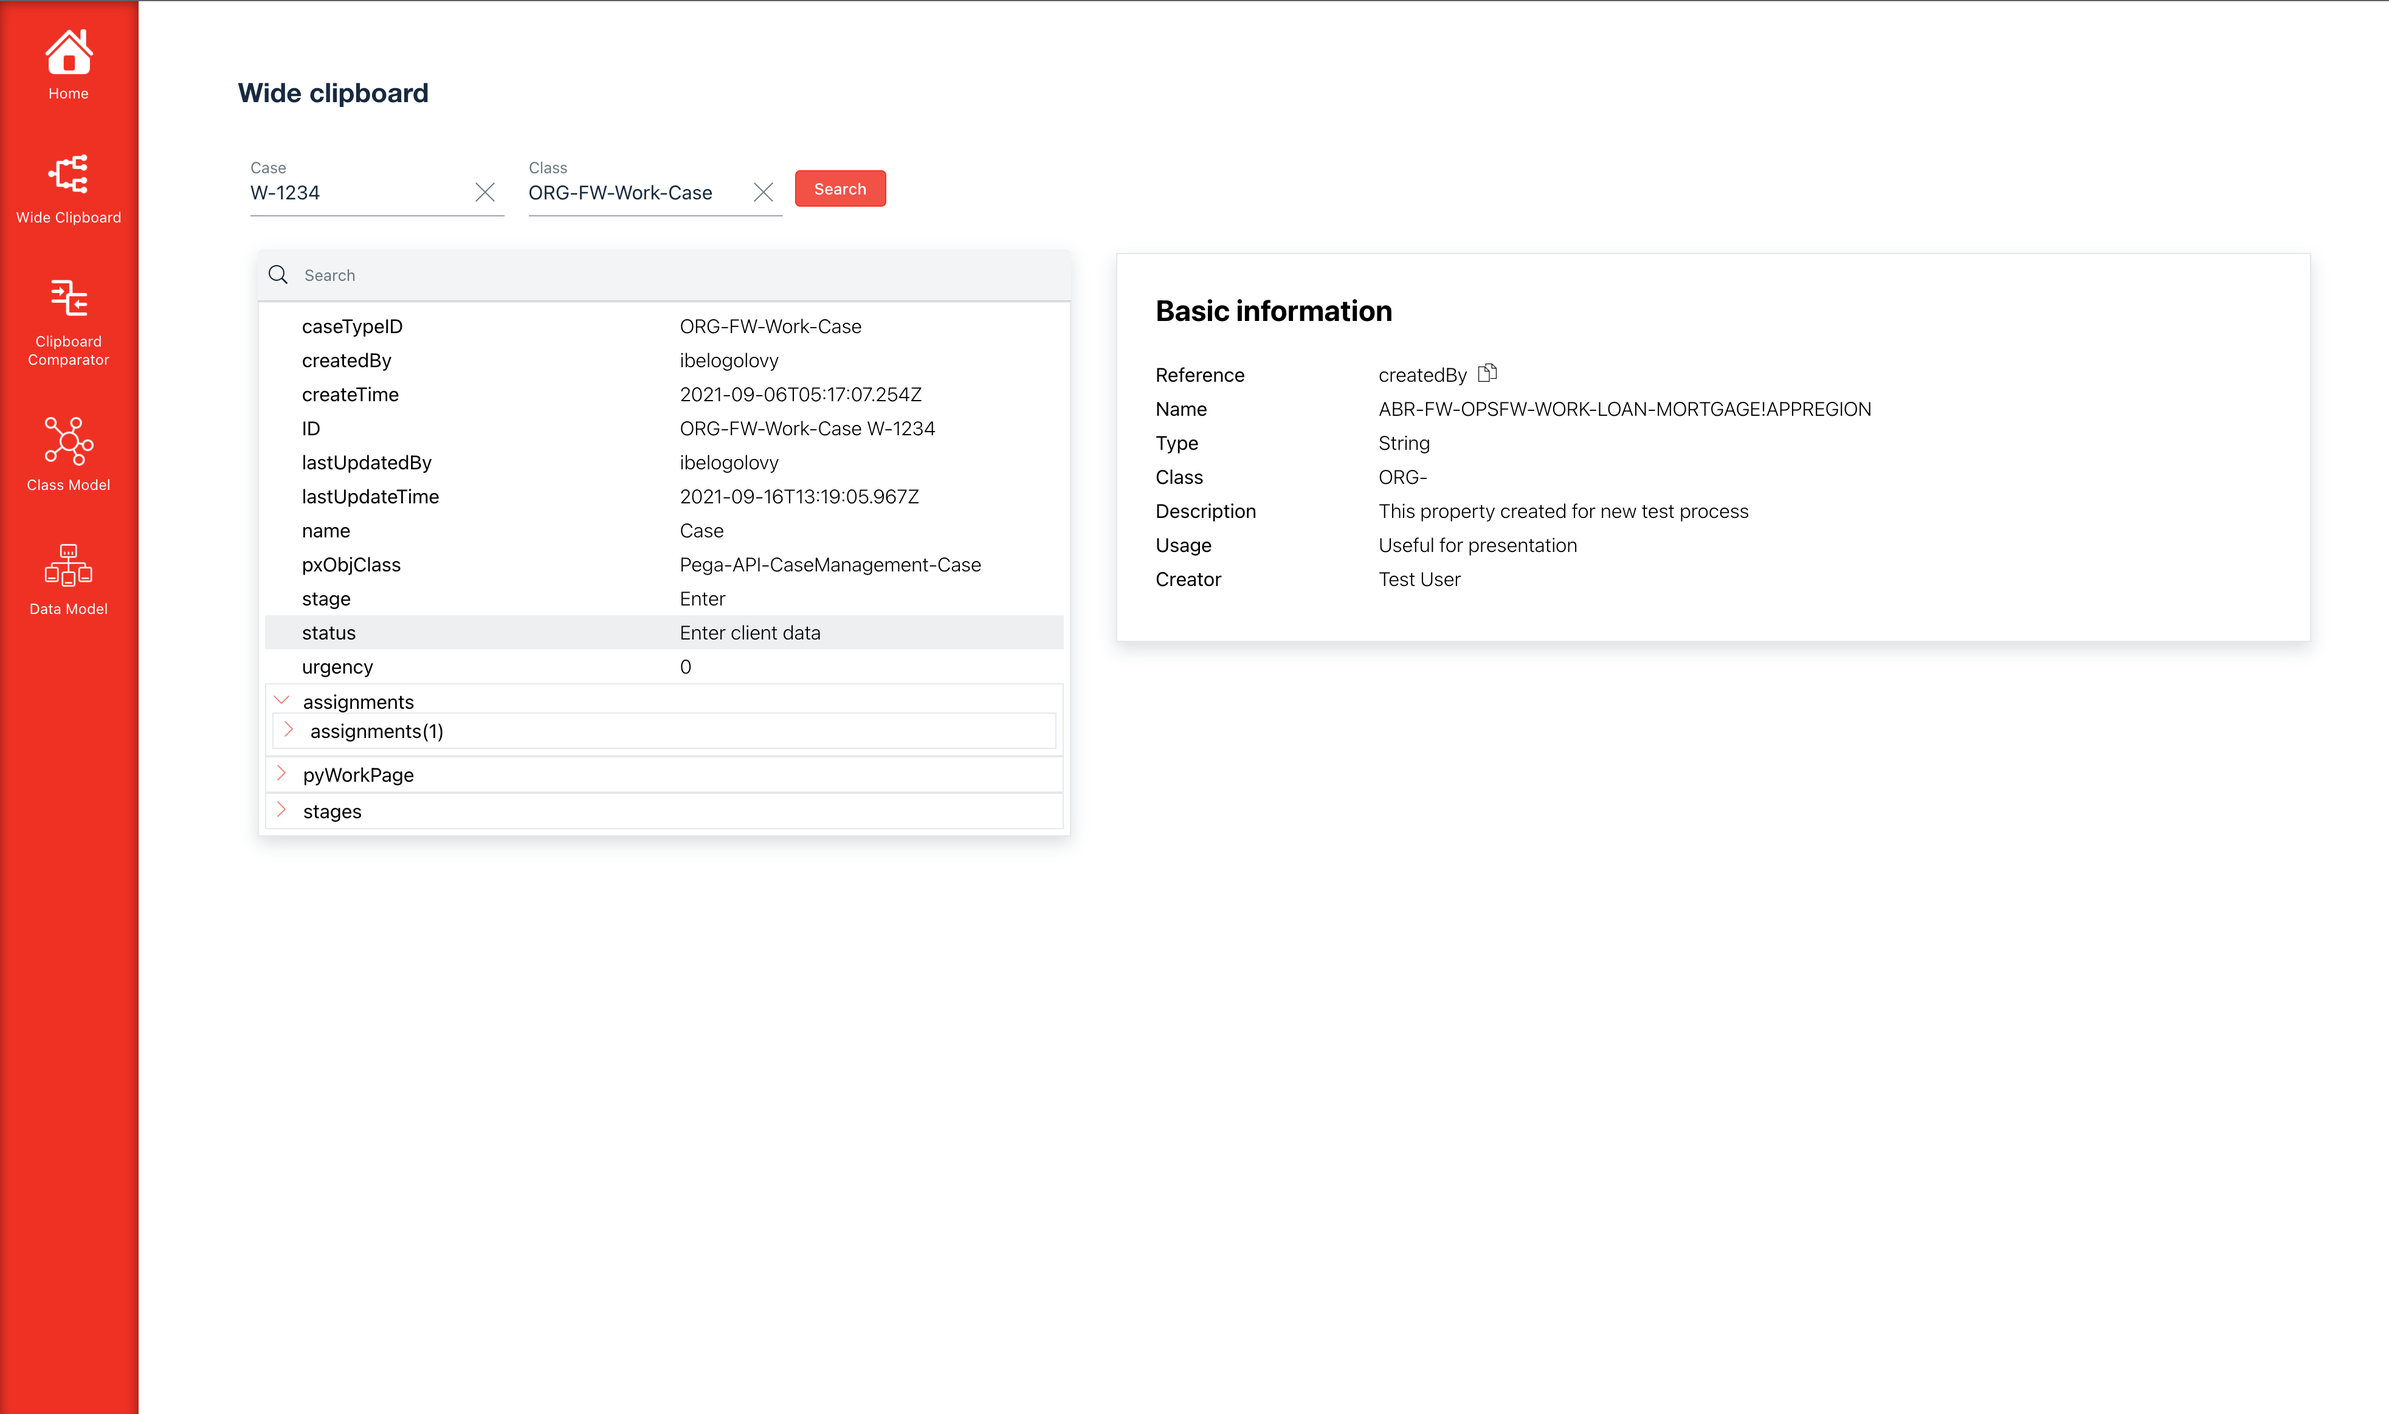
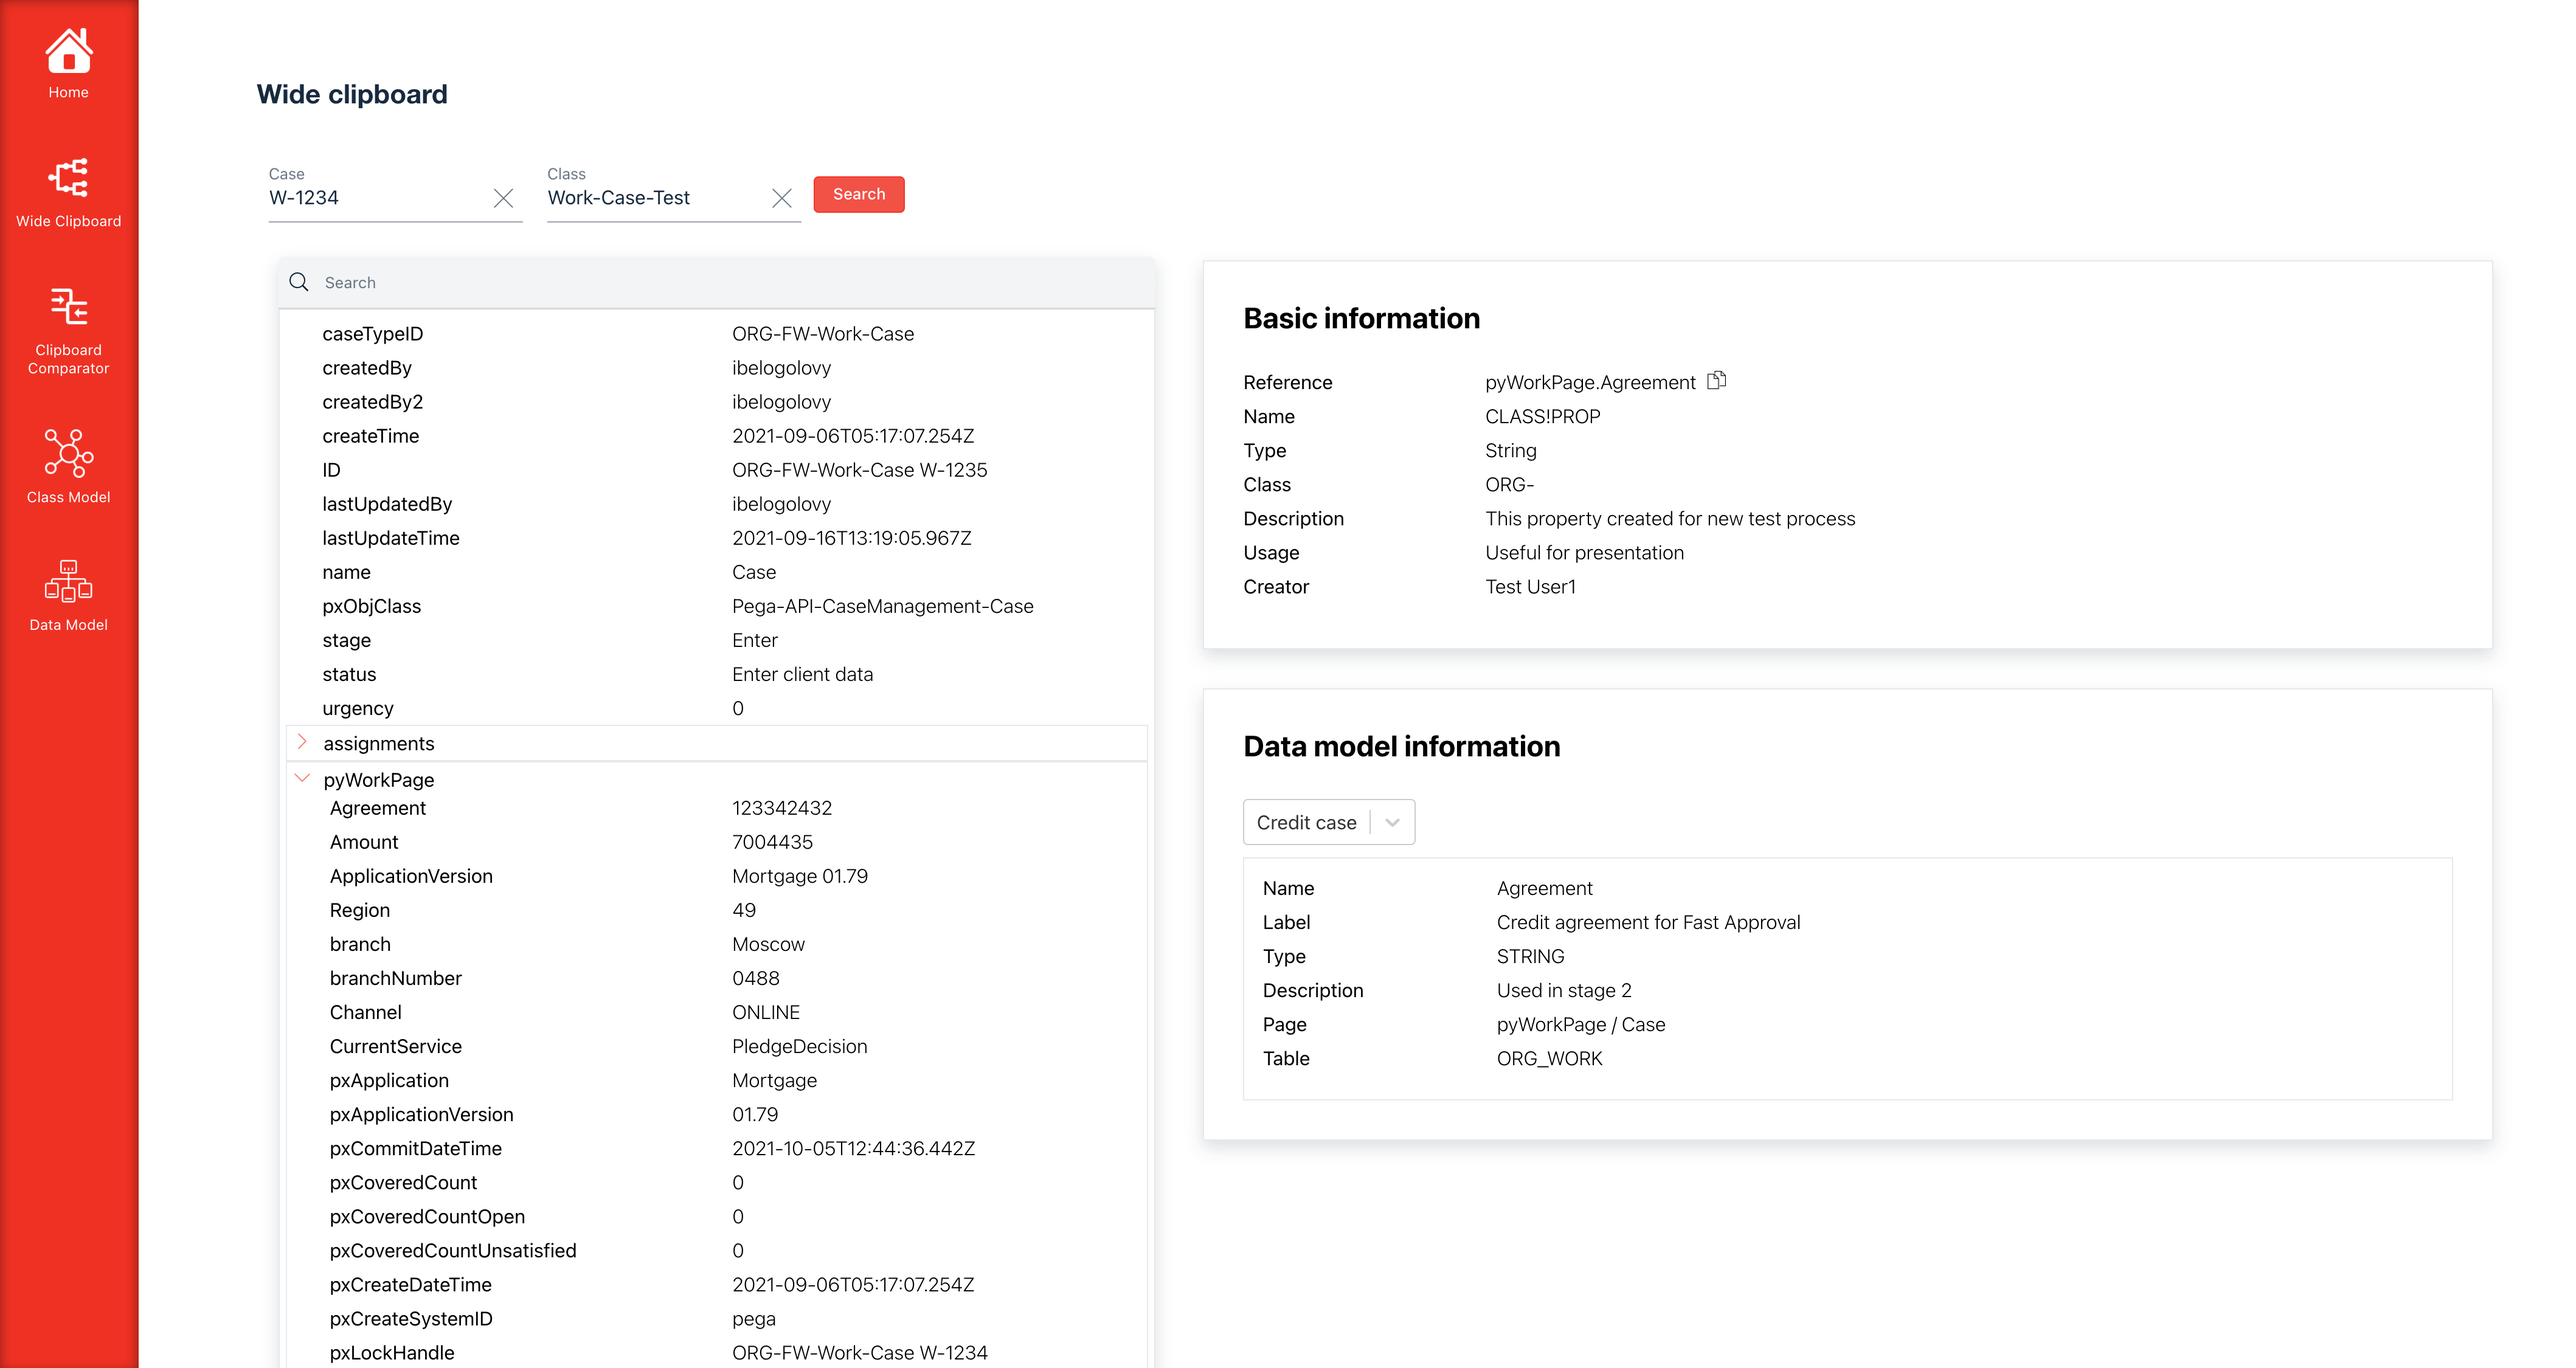
add new feature - info about property from data model

diff --git a/frontend/src/containers/property-explorer/property-explorer.js b/frontend/src/containers/property-explorer/property-explorer.js
@@ -1,40 +1,97 @@
-import React, { useEffect } from 'react';
+import React, { useEffect, useState } from 'react';
 
 import ErrorIndicator from '../../components/error-indicator';
 import Spinner from '../../components/spinner';
 import PropertyView from '../../components/property-view';
+import PropertyDiagramView from '../../components/property-diagram-view';
+
+import { getParentPageName } from '../../components/utils/pega-object';
 
 import { useSelector, useDispatch } from 'react-redux';
-import { fetchDataPage } from '../../actions';
+import { fetchDataPage, fetchSchemaList, fetchSchema } from '../../actions';
 import { useCookies } from 'react-cookie';
 
 
-const PropertyExplorer = ({ property, appliesToClass }) => {
+import './property-explorer.css';
+
+
+const PropertyExplorer = ({ property, appliesToClass, onChangeDiagram, diagram }) => {
+
+  const [diagramProperties, setDiagramProperties] = useState([]);
+  const [diagramNodes, setDiagramNodes] = useState([]);
 
   const dispatch = useDispatch();
 
+  const schema_list = useSelector(state => state.pegaSchema.schemaList);
+  const schema_list_loading = useSelector(state => state.pegaSchema.listLoading);
+  const schema_list_error = useSelector(state => state.pegaSchema.listError);
+
   const getPropDataPage = 'D_pzGetProperty';
 
-  const [{ activeSettingUrl, activeSettingCredential },] = useCookies(['activeSettingName', 'activeSettingCredential', 'activeSettingUrl']);
+  const [{ activeSettingUrl, activeSettingCredential }, ] = useCookies(['activeSettingName', 'activeSettingCredential', 'activeSettingUrl']);
+
+  const data = useSelector(state => state.dataPage.data);
+  const loading = useSelector(state => state.dataPage.loading);
+  const error = useSelector(state => state.dataPage.error);
+
+  const schema = useSelector(state => state.pegaSchema.data);
+  const schema_loading = useSelector(state => state.pegaSchema.loading);
+  const schema_error = useSelector(state => state.pegaSchema.error);
+
+  const { reference } = useSelector(state => state.selectedCase.params);
 
   useEffect(() => {
     fetchDataPage(getPropDataPage, { PropertyName: property, AppliesToClass: appliesToClass }, activeSettingUrl, activeSettingCredential)(dispatch);
   }, [dispatch, property, appliesToClass, activeSettingUrl, activeSettingCredential]);
 
-  const data = useSelector(state => state.dataPage.data);
-  const loading = useSelector(state => state.dataPage.loading);
-  const error = useSelector(state => state.dataPage.error);
-  const { reference } = useSelector(state => state.selectedCase.params);
+  useEffect(() => {
+    fetchSchemaList(dispatch);
+  }, [dispatch]);
+  
+  useEffect(() => {
+    if(diagram)
+      fetchSchema(diagram.id)(dispatch);
+  }, [diagram,dispatch]);
 
-  if (error) {
+  useEffect(() => {
+    if(diagram && !schema_loading && !schema_error) {
+      const parentNode = getParentPageName(reference);
+      const nodes = schema.nodes.filter(item=>item.label===parentNode);
+
+      setDiagramProperties(nodes.reduce((acc,curr)=>{
+        return [
+          ...acc,
+          ...curr.properties.filter(item=>item.name===property)
+                .map(item=> {return {...item, nodeTable: curr.tableName, nodeName:curr.label, nodeLabel: curr.customName}})
+        ]
+      }, []));
+      
+    } 
+  }, [diagram, reference, schema, property, schema_loading, schema_error]);
+
+
+  const onSearchProperty = (prop, node) =>{
+    fetchSchema(diagram.id)(dispatch);
+  };
+
+  if (error || schema_list_error || (diagram && schema_error)) {
     return <ErrorIndicator />;
   }
 
-  if (loading) {
+  if (loading || schema_list_loading || (diagram && schema_loading)) {
     return <Spinner />;
   }
 
-  return <PropertyView data={data} reference={reference} />;
+  return <div className="property-views">
+      <PropertyView data={data} 
+                    reference={reference} />
+      <PropertyDiagramView properties={diagramProperties} 
+                            nodes={diagramNodes}
+                            onSearchProperty={onSearchProperty} 
+                            diagramList = {schema_list} 
+                            diagram ={diagram} 
+                            onChangeDiagram={onChangeDiagram}/>
+  </div>;
 
 };
 

diff --git a/frontend/src/components/property-diagram-view/property-diagram-view.js b/frontend/src/components/property-diagram-view/property-diagram-view.js
@@ -1,0 +1,75 @@
+import React from 'react';
+
+import Select from 'react-select';
+
+import './property-diagram-view.css';
+
+const SearchResults = ({properties}) => {
+    if(properties.length === 0){
+        return <div className="field-group">
+            Not found
+        </div>
+    }
+    return <>
+           { properties.map(({ name, customName, type, description, nodeName, nodeLabel, nodeTable }  , i) => {
+                return (
+                    <div key={i} className="field-group">
+                        <div className="field">
+                            <div className="name"> Name </div>
+                            <div className="value"> { name } </div>
+                        </div>
+                        <div className="field">
+                            <div className="name"> Label </div>
+                            <div className="value"> { customName ? customName : "-" }  </div>
+                        </div>
+                        <div className="field">
+                            <div className="name"> Type </div>
+                            <div className="value"> { type ? type : "-" }  </div>
+                        </div>
+                        <div className="field">
+                            <div className="name"> Description </div>
+                            <div className="value"> { description ? description : "-" } </div>
+                        </div>
+                        <div className="field">
+                            <div className="name"> Page </div>
+                            <div className="value"> { nodeName } { nodeLabel ? "/ " + nodeLabel : null }</div>
+                        </div>
+                        <div className="field">
+                            <div className="name"> Table </div>
+                            <div className="value"> { nodeTable ? nodeTable : "-" } </div>
+                        </div>
+                    </div>
+                );
+            })}
+            </>
+}
+
+const PropertyDiagramView = ({ properties=[], diagramList, onChangeDiagram, diagram}) => {
+
+    const selectedDiagram = diagram ? diagram : {name: "Select schema...", id:0};
+    // const onClickSearch = () => {
+    //     onSearchProperty();
+    // }
+
+    return <div className="property-diagram-view">
+        <div className="field">
+            <h2>Data model information</h2>
+        </div>
+        <div className="field">
+            <Select
+                                name="diagram"
+                                options={diagramList}
+                                getOptionLabel={(option) => `${option['name']}`}
+                                getOptionValue={(option) => `${option['id']}`}
+                                defaultValue={selectedDiagram}
+                                onChange={onChangeDiagram} />
+            {/* <button className="button-gray" onClick={onClickSearch}>Search</button> */}
+         </div>
+        {diagram ?
+            <SearchResults properties={properties} />
+        : null}
+    </div>
+};
+
+
+export default PropertyDiagramView;

diff --git a/frontend/src/containers/wideClipboard/wideClipboard.js b/frontend/src/containers/wideClipboard/wideClipboard.js
@@ -14,14 +14,18 @@ const WideClipdoard = ({ caseKey, caseClass }) => {
 
   const [selectedProperty, setSelectedProperty] = useState("");
   const [selectedPropClass, setSelectedPropClass] = useState("");
-
+  const [selectedDiagram, setSelectedDiagram] = useState(null);
+  
+  const onChangeDiagram= (diagram) => {
+    setSelectedDiagram(diagram);
+  }
   const dispatch = useDispatch();
 
   const onClickNode = ({ nodeName, objClass, nodeRef }) => {
     setSelectedProperty(nodeName);
     setSelectedPropClass(objClass);
     dispatch(caseParamSetted({ reference: nodeRef }));
-  }
+  };
 
   return (
     <div className="wide-clipboard">
@@ -30,7 +34,12 @@ const WideClipdoard = ({ caseKey, caseClass }) => {
       </div>
       <div className="property-explorer">
         {
-             selectedProperty!=="" && selectedPropClass!=="" ? <PropertyExplorer property={selectedProperty} appliesToClass={selectedPropClass} /> : null
+             selectedProperty!=="" && selectedPropClass!=="" ? 
+                        <PropertyExplorer property={selectedProperty} 
+                                          appliesToClass={selectedPropClass} 
+                                          diagram={selectedDiagram}
+                                          onChangeDiagram={onChangeDiagram}/> 
+                        : null
         }
       </div>
     </div>

diff --git a/frontend/src/components/property-diagram-view/property-diagram-view.css b/frontend/src/components/property-diagram-view/property-diagram-view.css
@@ -1,0 +1,42 @@
+.property-diagram-view {
+    background-color: #FFFFFF;
+    border: 1px solid rgba(11,31,53,.1);
+    padding: 2em;
+    display: flex; 
+    flex-direction: row;
+    flex-wrap: wrap;
+    align-content: flex-start;
+    box-shadow:0 6px 14px rgba(11,31,53,.15);
+}
+
+.property-diagram-view h2 {
+    margin-top:0;
+}
+
+.property-diagram-view .field {
+    display: flex;
+    margin-bottom: 10px;
+    width: 100%;
+  }
+  
+.property-diagram-view .field .name {
+      width: 20%;
+      font-weight: 400;
+  }
+  
+.property-diagram-view .field .value {
+      word-wrap: break-word; 
+      width: 80%;
+      font-weight: 300;
+  }
+
+
+.property-diagram-view  .button-gray {
+    margin-left: 20px;
+}
+
+.property-diagram-view .field-group {
+    width: 100%;
+    border: 1px solid rgba(11,31,53,.1);
+    padding: 15px;
+}

diff --git a/frontend/src/containers/pages/case-data-view.js b/frontend/src/containers/pages/case-data-view.js
@@ -25,14 +25,15 @@ const CaseDataView = () => {
     });
 
     const hideHeaderOnScroll = () => {
+        if(headerRef.current) {
+            const distanceY = window.pageYOffset || document.documentElement.scrollTop;
+            const shrinkOn = headerRef.current.className === "hidden" ? 0 : 190;
 
-        const distanceY = window.pageYOffset || document.documentElement.scrollTop;
-        const shrinkOn = headerRef.current.className === "hidden" ? 0 : 190;
-
-        if (distanceY > shrinkOn) {
-            headerRef.current.className = "hidden";
-        } else {
-            headerRef.current.className = "";
+            if (distanceY > shrinkOn) {
+                headerRef.current.className = "hidden";
+            } else {
+                headerRef.current.className = "";
+            }
         }
     };
 

diff --git a/frontend/src/components/utils/pega-object.js b/frontend/src/components/utils/pega-object.js
@@ -15,6 +15,14 @@ const getPegaName = (prefix, name) => {
     return name;
 }
 
+/* Return parent node from object structure
+   by pega reference */
+const getParentPageName = (ref) => {
+    const regex = /[(]\d+[)]/ig;
+    let parts = ref.replace(regex,"").split('.');
+    return parts.length > 1 ? parts[parts.length - 2] : parts[parts.length - 1];
+}
+
 /* form pega reference array from json object */
 const formReferenceList = (obj, reference = "", result = []) => {
     Object.keys(obj || {}).forEach(key => {
@@ -83,5 +91,6 @@ const addMissignProperties = (obj1, obj2) => {
 export {
     getPegaName,
     formReferenceList,
-    addMissignProperties
+    addMissignProperties,
+    getParentPageName
 };

diff --git a/frontend/src/containers/pages/case-data-model.js b/frontend/src/containers/pages/case-data-model.js
@@ -20,8 +20,6 @@ const CaseDataView = () => {
 
     const caseClassWithDefault = !caseClass || caseClass === "" ? cookies.defaultWorkClass : caseClass;
 
-    console.log(caseClassWithDefault);
-
     const onSubmitSearch = ({ caseId, caseClass }) => {
         dispatch(caseParamSetted({ caseId, caseClass }));
     }

diff --git a/frontend/src/components/diagram/erd.js b/frontend/src/components/diagram/erd.js
@@ -3,6 +3,7 @@ import React, { useState, useEffect } from "react";
 import ReactFlow, {
     ReactFlowProvider,
     addEdge,
+    // eslint-disable-next-line
     removeElements,
     isNode,
     ArrowHeadType,

diff --git a/frontend/src/components/diagram-control-panel/diagram-control-panel.js b/frontend/src/components/diagram-control-panel/diagram-control-panel.js
@@ -1,5 +1,5 @@
 import React, { useState, useEffect } from "react";
-import Select from 'react-select'
+import Select from 'react-select';
 
 import { VerticallyCenteredModal } from '../modal-dialog';
 

diff --git a/frontend/src/components/property-diagram-view/index.js b/frontend/src/components/property-diagram-view/index.js
@@ -1,0 +1,3 @@
+import PropertyDiagramView from './property-diagram-view';
+
+export default PropertyDiagramView;

diff --git a/frontend/src/containers/property-explorer/property-explorer.css b/frontend/src/containers/property-explorer/property-explorer.css
@@ -1,0 +1,3 @@
+.property-views > div {
+    margin-bottom:3%;
+}
